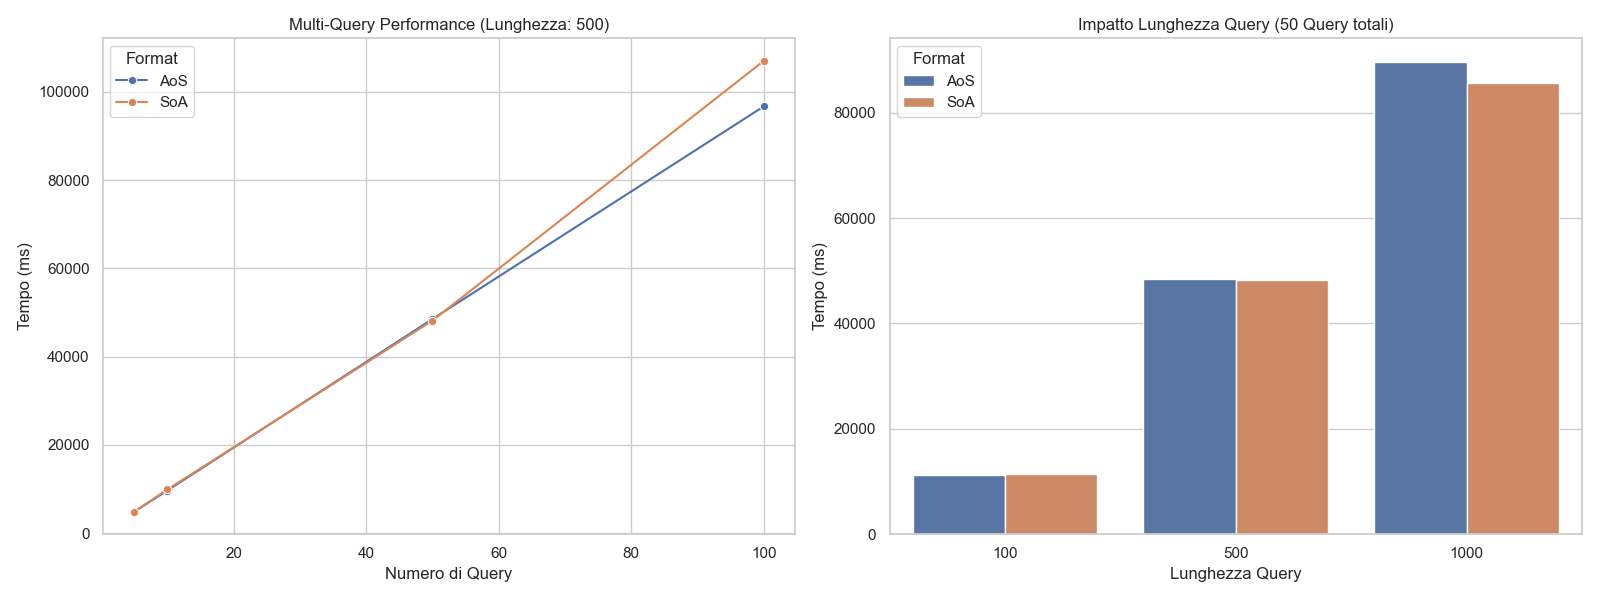
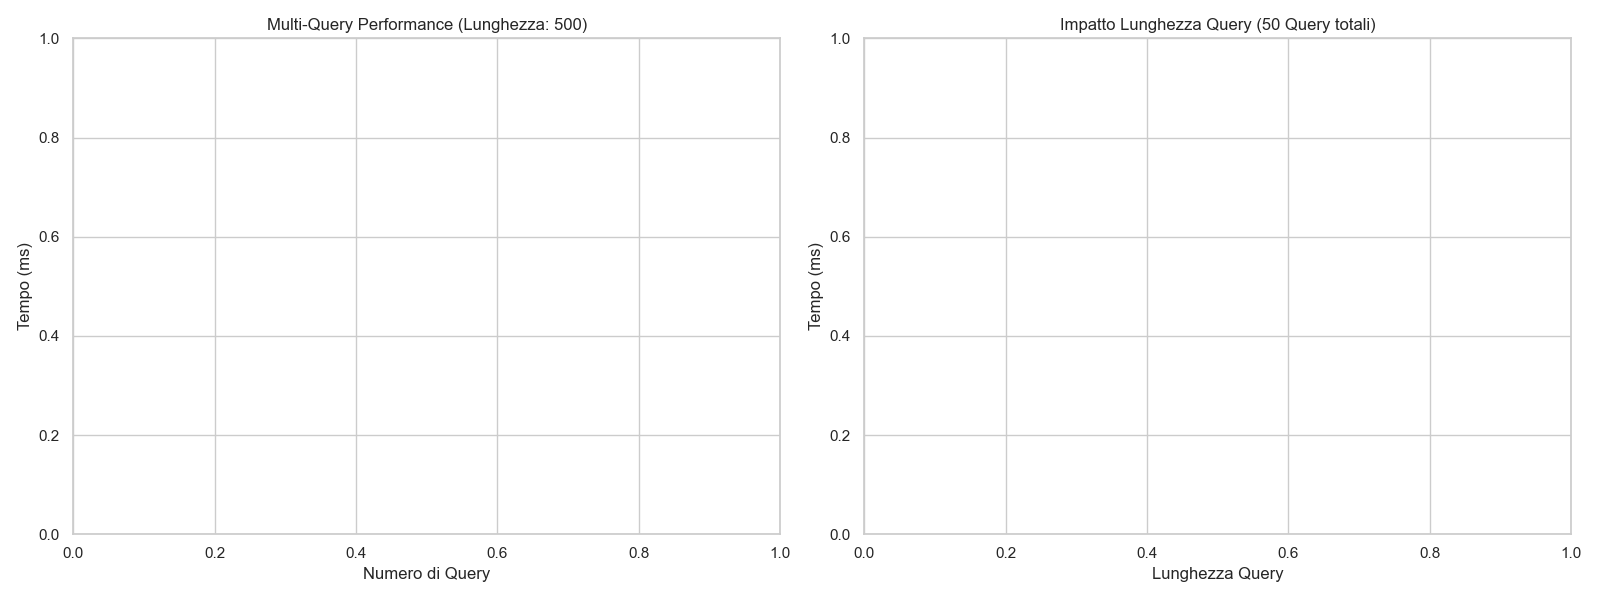
change on graphs, added another condition of QueryLenght

diff --git a/src/timeseries.cpp b/src/timeseries.cpp
@@ -108,36 +108,34 @@ TimeSeries_SoA loadDatasetSoA(const vector<string>& rawDataset){
     TimeSeries_SoA dataset ;
 
     string delimiter = ":";
+    size_t series_size = rawDataset.size();
 
-    #pragma omp parallel
-    {
-        TimeSeries_SoA local_dataset;
+    size_t pos_first = rawDataset[0].find_last_of(delimiter); //lunghezza serie della prima riga per preallocare
+    vector<double> first_serie = DataParse(rawDataset[0].substr(0, pos_first));
+    dataset.serie_lenght = first_serie.size();
 
-        #pragma omp for nowait
-        for (int i=0 ; i< rawDataset.size();  ++i){
-            string _line = rawDataset[i];
+    //si può fare la pre-allocazione totale
+    dataset.all_data_flat.resize(series_size * dataset.serie_lenght); 
+    dataset.all_classes.resize(series_size);
+    
+    #pragma omp parallel for schedule(static) // Ogni thread scrive direttamente nella posizione corretta del vettore flat e classes, evitando così la necessità di un vettore di dataset parziali e della sezione critica
+    for  (int i = 0; i < series_size; ++i ){
+        string _line = rawDataset[i];
+        size_t pos_delim = _line.find_last_of(delimiter); //size_t per evitare warning in caso npos
+        
+        // Estrazione classe
+        dataset.all_classes[i] = stoi(_line.substr(pos_delim + 1)); //string to integer
 
-            size_t pos_delim = _line.find_last_of(delimiter); //size_t per evitare warning in caso npos
-            string token = _line.substr(pos_delim + 1);
-            string data_str = _line.substr(0, pos_delim);
-            
+        //Parsing dati 
+        vector<double> serie = DataParse(_line.substr(0, pos_delim));
 
-            local_dataset.all_data.push_back(DataParse(data_str));
-            local_dataset.all_classes.push_back(stoi(token));
-            
-        }
-        #pragma omp critical
-        {
-            partial_datasets.push_back(local_dataset);
-        }
+        // Copia veloce nel vettore flat
+        size_t offset = i * dataset.serie_lenght;
+        std::copy(serie.begin(), serie.end(), dataset.all_data_flat.begin() + offset); //sposta blocchi di dati. Begin punto di partenza, end punto fine sorgente + offset è il punto di partenza nel vettore flat
+        // diventa per alcuni compilatori memcpy , sfrutta la larghezza di banda massima della memoria RAM
     }
 
-    for (const auto& pd : partial_datasets) {
-        dataset.all_data.insert(dataset.all_data.end(), pd.all_data.begin(), pd.all_data.end()); // appendi tutto il pd alla fine del dataset
-        dataset.all_classes.insert(dataset.all_classes.end(), pd.all_classes.begin(), pd.all_classes.end());
-    }
-
-    cout<<"loaded "<<dataset.all_data.size()<<" time series (SoA) from file  "<<endl;
+    cout<<"loaded "<<dataset.all_data_flat.size()/dataset.serie_lenght<<" time series (SoA) from file  "<<endl;
     return dataset;
 }
 
@@ -145,50 +143,50 @@ TimeSeries_SoA loadDatasetSoA(const vector<string>& rawDataset){
 
 
  
-int SAD_Search(const vector<double>& T, const vector<double>& Q){ // T --> è la serie di 5120 misurazioi sulla quale confrontare la query Q
-    if (Q.size()>T.size() || T.empty() || Q.empty()){
-        throw runtime_error("Error in SAD_Search: query size greater than time series size or empty series");
-    }
-
-    double min_sad = std::numeric_limits<double>::max(); // val max di un double così da essere sicuri che la prima somma calcolata sia minore
+int SAD_Search(const double* T,int N, const vector<double>& Q){ // T --> è il puntatore alla serie di 5120 misurazioi sulla quale confrontare la query Q
+    double min_sad = std::numeric_limits<double>::max();
     int best_index = -1;
-    int N = T.size();
-    int M = Q.size();
-    for (int i = 0; i <= N - M; ++i) {
+    int M = Q.size(); // lunghezza query
+    const double* Q_ptr = Q.data(); // ottieni il puntatore alla query
+
+    for (int i=0; i<= N-M; ++i){
         double current_sad = 0.0;
 
-        #pragma omp simd reduction(+:current_sad)
-        for (int j = 0; j < M; ++j) {
-            current_sad += std::abs(T[i + j] - Q[j]);
+        #pragma omp simd reduction(+:current_sad) // SIMD per vettorizzare il calcolo del SAD, reduction per sommare in parallelo
+        for (int j=0; j<M; ++j){
+            current_sad += std::abs(T[i+j] - Q_ptr[j]);
         }
         if (current_sad < min_sad) {
             min_sad = current_sad;
             best_index = i;
         }
+
     }
+
     return best_index;
 }
 
-
-
 // stessa query
-vector<int> ParallelSearch_AoS(const vector<TimeSeries>& dataset, 
-                                 const vector<double>& query) {
+vector<int> ParallelSearch_AoS(const vector<TimeSeries>& dataset, const vector<double>& query) {
+    
     vector<int> results(dataset.size()); // Preallocazione
 
     #pragma omp parallel for 
     for (int i = 0; i < dataset.size(); ++i) {
-        results[i] = SAD_Search(dataset[i].data, query); 
+        results[i] = SAD_Search(dataset[i].data.data(), dataset[i].data.size(), query); 
     }
     return results;
 }
 
 vector<int> ParallelSearch_SoA(const TimeSeries_SoA& dataset, const vector<double>& query){
-    vector<int> results(dataset.all_data.size());    //preallocazione per non dover usare critical
+    int numDataRows = dataset.all_classes.size();
+    int L = dataset.serie_lenght;
+    vector<int> results(numDataRows);    //preallocazione per non dover usare critical
 
     #pragma omp parallel for 
-    for (int i=0; i < dataset.all_data.size(); ++i){
-        results[i] = SAD_Search(dataset.all_data[i], query);
+    for (int i=0; i < numDataRows; ++i){
+        const double* series_ptr = &dataset.all_data_flat[i * L]; // Calcola l'offset per accedere alla serie i-esima
+        results[i] = SAD_Search(series_ptr, L, query);
     }
     return results;
 }
@@ -205,7 +203,7 @@ vector<vector<int>> MultiQueryParallelSearch_AoS(const vector<TimeSeries>& datas
     for (int q_idx = 0; q_idx < numQueries; ++q_idx) {
         for (int i = 0; i < numDataRows; ++i) {
             // La differenza è qui:
-            all_results[q_idx][i] = SAD_Search(dataset[i].data, queries[q_idx]);
+            all_results[q_idx][i] = SAD_Search(dataset[i].data.data(), dataset[i].data.size(), queries[q_idx]);
         }
     } 
     return all_results;
@@ -213,14 +211,15 @@ vector<vector<int>> MultiQueryParallelSearch_AoS(const vector<TimeSeries>& datas
 
 vector<vector<int>> MultiQueryParallelSearch_SoA(const TimeSeries_SoA& dataset, const vector<vector<double>>& queries){
     int numQueries = queries.size();
-    int numDataRows = dataset.all_data.size();
-
+    int numDataRows = dataset.all_classes.size();
+    int L = dataset.serie_lenght;
     vector<vector<int>> all_results(numQueries, vector<int>(numDataRows));
 
     #pragma omp parallel for collapse(2)  // Parallelizza su entrambe le dimensioni --> ( num_query x num_righe )/num_thread 
     for (int q_idx = 0; q_idx < numQueries; ++q_idx) {
         for (int i = 0; i < numDataRows; ++i) {
-            all_results[q_idx][i] = SAD_Search(dataset.all_data[i], queries[q_idx]);
+            const double* series_ptr = &dataset.all_data_flat[i * L]; // Calcola l'offset per accedere alla serie i-esima
+            all_results[q_idx][i] = SAD_Search(series_ptr, L, queries[q_idx]);
         }
     } 
     
@@ -228,27 +227,31 @@ vector<vector<int>> MultiQueryParallelSearch_SoA(const TimeSeries_SoA& dataset, 
 }
 
 std::vector<double> RandomQuery(const TimeSeries_SoA& dataset, size_t lunghezzaQuery, std::mt19937& gen){
-    if (dataset.all_data.empty()) {
+    size_t numSeries = dataset.all_classes.size();
+    
+    if (numSeries == 0) {
         std::cerr << "ERROR: Dataset is empty." << std::endl;
         return {};
     }
-    if (lunghezzaQuery == 0) {
-        std::cerr << "ERROR: Query length cannot be zero." << std::endl;
+    if (lunghezzaQuery == 0 || lunghezzaQuery > dataset.serie_lenght) {
+        std::cerr << "ERROR: Query length invalid." << std::endl;
         return {};
     }
-    std::uniform_int_distribution<size_t> row_dist(0, dataset.all_data.size() - 1);
+    std::uniform_int_distribution<size_t> row_dist(0, numSeries - 1);
     size_t row = row_dist(gen);
-
-    const auto& serie = dataset.all_data[row];
-    if (lunghezzaQuery > serie.size()) {
-        std::cerr << "ERROR: Query length > series size (" << serie.size() << ")" << std::endl;
-        return {};
-    }
-
-    // scegli un indice di inizio casuale affinché la sottoserie rientri nella serie
-    size_t max_start = serie.size() - lunghezzaQuery;
+    
+    // 3. Calcoliamo l'indice di inizio massimo all'interno della riga scelta
+    size_t max_start = dataset.serie_lenght - lunghezzaQuery;
     std::uniform_int_distribution<size_t> start_dist(0, max_start);
-    size_t start = start_dist(gen);
+    size_t start_in_row = start_dist(gen);
 
-    return std::vector<double>(serie.begin() + start, serie.begin() + start + lunghezzaQuery);
+    // 4. Calcoliamo l'offset globale nel vettore FLAT
+    // L'inizio è: (indice_riga * lunghezza_riga) + punto_di_inizio_nella_riga
+    size_t global_start_index = (row * dataset.serie_lenght) + start_in_row;
+
+    // 5. Estraiamo la sottoserie usando gli iteratori del vettore piatto
+    return std::vector<double>(
+        dataset.all_data_flat.begin() + global_start_index, 
+        dataset.all_data_flat.begin() + global_start_index + lunghezzaQuery
+    );
 }

diff --git a/src/main.cpp b/src/main.cpp
@@ -5,6 +5,7 @@
 #include <chrono>
 #include <random>
 #include <fstream>
+#include <cstdlib> // per system()
 
 using namespace std;
 using namespace std::chrono;
@@ -15,9 +16,12 @@ int main() {
     std::mt19937 gen(rd());
     //const int NUM_QUERIES = 5;
     //const int QUERY_LENGTH = 100;
-    vector<int> query_numbers = {5, 10, 50, 100};
-    vector<int> query_lengths = {100, 500, 1000};
-
+    vector<int> query_numbers = {5, 50, 100};
+    vector<int> query_lengths = {100, 500, 1000, 3000};
+/*
+    vector<int> query_numbers = {5, 10};
+    vector<int> query_lengths = {100};
+*/
 
     vector<string> raw_data_lines = loadRawDataset(path);
 
@@ -104,50 +108,5 @@ int main() {
     outFile.close();
     cout << "Dati salvati in Search_results.csv" << endl;
 
-/*
-    vector<vector<double>> all_queries;
-    for(int i = 0; i < NUM_QUERIES; ++i) {
-        all_queries.push_back(RandomQuery(datasetSoA, QUERY_LENGTH, gen)); //genera query randomiche basate sui dati del dataset
-    }
-    cout << "Create " << all_queries.size() << " query." << endl;
-
-    vector<double> single_query = all_queries[0];
-
-    // Time AoS SingleSearch
-    cout << "Parallel SingleSearch on AoS..." << endl;
-    auto start_SingleAoS_search = high_resolution_clock::now();
-    vector<int> risultati_SingleAoS = ParallelSearch_AoS(datasetAoS, single_query);
-    auto end_SingleAoS_search = high_resolution_clock::now();
-    duration<double, milli> time_SingleAoS_search = end_SingleAoS_search - start_SingleAoS_search;
-    
-    // Time SoA SingleSearch
-    cout << "Parallel SingleSearch on SoA..." << endl;
-    auto start_SingleSoA_search = high_resolution_clock::now();
-    vector<int> risultati_SingleSoA = ParallelSearch_SoA(datasetSoA, single_query);
-    auto end_SingleSoA_search = high_resolution_clock::now();
-    duration<double, milli> time_SingleSoA_search = end_SingleSoA_search - start_SingleSoA_search;
-
-    // Time AoS MultiSearch
-    cout << "Parallel MultiSearch on AoS..." << endl;
-    auto start_MultiAoS_search = high_resolution_clock::now();
-    vector<vector<int>> risultati_MultiAoS = MultiQueryParallelSearch_AoS(datasetAoS, all_queries);
-    auto end_MultiAoS_search = high_resolution_clock::now();
-    duration<double, milli> time_MultiAoS_search = end_MultiAoS_search - start_MultiAoS_search;
-    
-    // Time SoA MultiSearch
-    cout << "Parallel MultiSearch on SoA..." << endl;
-    auto start_MultiSoA_search = high_resolution_clock::now();
-    vector<vector<int>> risultati_MultiSoA = MultiQueryParallelSearch_SoA(datasetSoA, all_queries);
-    auto end_MultiSoA_search = high_resolution_clock::now();
-    duration<double, milli> time_MultiSoA_search = end_MultiSoA_search - start_MultiSoA_search;
-
-
-    /// Print times
-    cout << "Single Search AoS Time: " << time_SingleAoS_search.count() << " ms" << endl;
-    cout << "Single Search SoA Time: " << time_SingleSoA_search.count() << " ms" << endl;
-
-    cout << "Multi Search AoS Time: " << time_MultiAoS_search.count() << " ms" << endl;
-    cout << "Multi Search SoA Time: " << time_MultiSoA_search.count() << " ms" << endl;  
-    */ 
     return 0;
 }

diff --git a/src/plot_results.py b/src/plot_results.py
@@ -12,25 +12,37 @@ except FileNotFoundError:
 # Imposta lo stile estetico
 sns.set_theme(style="whitegrid")
 
-# Creiamo una figura con due sottografici (Subplots)
-fig, (ax1, ax2) = plt.subplots(1, 2, figsize=(16, 6))
+df['TimeS'] = df['TimeMS'] / 1000.0  # Converti ms in secondi
 
-# GRAFICO 1: Tempo di esecuzione Multi-Query al variare del numero di query
-# Filtriamo per una lunghezza specifica, ad esempio 500
-df_500 = df[(df['Type'] == 'Multi') & (df['QueryLength'] == 500)]
-sns.lineplot(data=df_500, x='NumQueries', y='TimeMS', hue='Format', marker='o', ax=ax1)
-ax1.set_title('Multi-Query Performance (Lunghezza: 500)')
-ax1.set_ylabel('Tempo (ms)')
-ax1.set_xlabel('Numero di Query')
+query_lengths = sorted(df['QueryLength'].unique())
+num_queries = sorted(df['NumQueries'].unique())
 
-# GRAFICO 2: Impatto della Lunghezza Query (con NumQueries fissato a 50)
-df_q50 = df[(df['Type'] == 'Multi') & (df['NumQueries'] == 50)]
-sns.barplot(data=df_q50, x='QueryLength', y='TimeMS', hue='Format', ax=ax2)
-ax2.set_title('Impatto Lunghezza Query (50 Query totali)')
-ax2.set_ylabel('Tempo (ms)')
-ax2.set_xlabel('Lunghezza Query')
+df_single = df[df['Type'] == 'Single']
+
+##  FIG 1 PER SINGLE QUERY
+
+plt.figure(figsize=(12, 6))
+sns.barplot(x='QueryLength', y='TimeS', data=df_single, hue='Format')
+plt.title('Single Query Performance: AoS vs SoA')
+plt.xlabel('Query Length')
+plt.ylabel('Time (s)')
+plt.savefig('single_query_performance.png')
+plt.close()
+
+
+## FIG 2 PER MULTIPLE QUERIES
+df_multi= df[df['Type'] == 'Multi']
+
+fig, axes = plt.subplots(len(num_queries), 1, figsize=(12, 6 * len(num_queries)), sharex=True)
+
+for i, num_q in enumerate(num_queries):
+    ax = axes[i]
+    subset = df_multi[df_multi['NumQueries'] == num_q]
+    sns.barplot(data=subset, x='QueryLength', y='TimeS', hue='Format', ax=ax)
+    ax.set_title(f'Multiple Queries Performance: {num_q} Queries')
+    ax.set_xlabel('Query Length')
+    ax.set_ylabel('Time (s)')
 
 plt.tight_layout()
-plt.savefig('benchmark_plots.png')
-print("Grafici salvati con successo in 'benchmark_plots.png'")
-plt.show()
+plt.savefig('multiple_queries_performance.png')
+plt.close()

diff --git a/include/timeseries.h b/include/timeseries.h
@@ -10,6 +10,8 @@ struct TimeSeries{
 struct TimeSeries_SoA{
     std::vector<std::vector<double>> all_data;
     std::vector<int> all_classes;
+    std::vector<double> all_data_flat;
+    int serie_lenght;
 };
 
 std::vector<std::string> loadRawDataset(const std::string& filename);
@@ -23,7 +25,7 @@ TimeSeries_SoA loadDatasetSoA(const std::vector<std::string>& rawDataset);
 //void chooseClass_2(int cls_index, std::vector<TimeSeries>& dataset);
 
 
-int SAD_Search(const std::vector<double>& T, const std::vector<double>& Q);
+int SAD_Search(const double* T, int N, const std::vector<double>& Q);
 std::vector<int> ParallelSearch_SoA(const TimeSeries_SoA& dataset, const std::vector<double>& query);
 std::vector<std::vector<int>> MultiQueryParallelSearch_SoA(const TimeSeries_SoA& dataset, const std::vector<std::vector<double>>& queries);
 std::vector<double> RandomQuery(const TimeSeries_SoA& dataset, size_t lunghezzaQuery, std::mt19937& gen);
